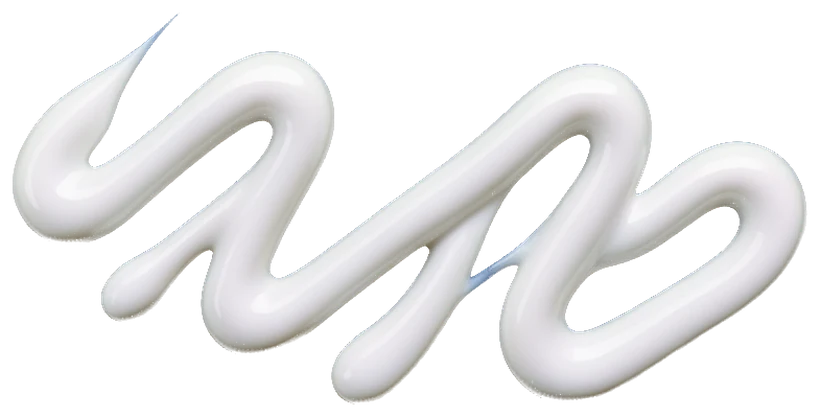
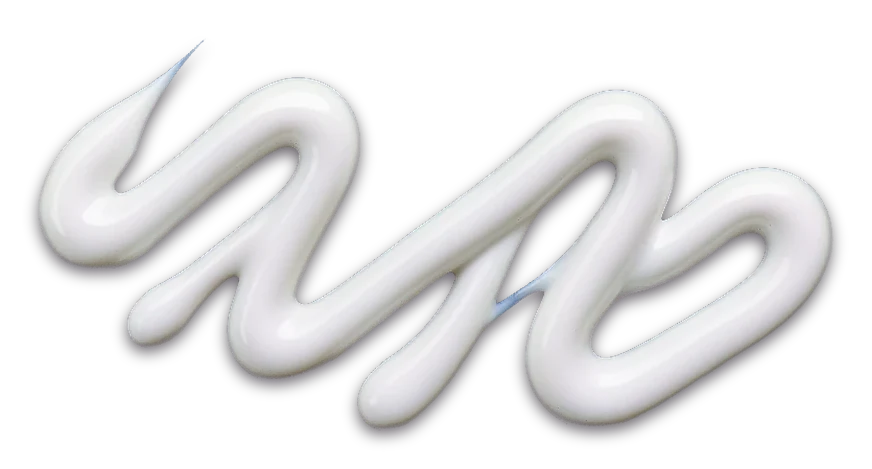
Refactor CSS styles and optimize image loading for better performance

diff --git a/js/app.js b/js/app.js
@@ -70,6 +70,24 @@
 
   const novoId = () => Date.now().toString(36) + Math.random().toString(36).slice(2, 6);
 
+  // "mola": passa um pouquinho do ponto e volta (mesmo efeito da animação anterior)
+  const molinha = (t) => 1 + 2.3 * Math.pow(t - 1, 3) + 1.3 * Math.pow(t - 1, 2);
+
+  // fotos das fatias, carregadas uma vez só e reaproveitadas por todos os copos
+  const FOTOS = new Map();
+  function fotoDoItem(item, aoCarregar) {
+    let img = FOTOS.get(item.id);
+    if (!img) {
+      img = new Image();
+      img.decoding = "async";
+      img.src = item.img;
+      img.decode?.().catch(() => {}); // prepara a foto em segundo plano (evita engasgo no 1º desenho)
+      FOTOS.set(item.id, img);
+    }
+    if (aoCarregar && !(img.complete && img.naturalWidth)) img.addEventListener("load", aoCarregar, { once: true });
+    return img;
+  }
+
   /* ============================================================
      O copo visto de cima
      ============================================================ */
@@ -83,7 +101,8 @@
         <div class="copo-borda"></div>
         <div class="copo-disco">
           <div class="copo-acai"></div>
-          <div class="copo-fatias"></div>
+          <canvas class="copo-fatias" aria-hidden="true"></canvas>
+          <div class="copo-centro"></div>
           ${CALDAS.map(
             (c, i) =>
               `<div class="calda" data-id="${esc(c.id)}" style="--giro:${GIRO_CALDA[i % GIRO_CALDA.length]}deg;background-image:url('${esc(c.calda)}')"></div>`,
@@ -94,53 +113,121 @@
     alvo.replaceChildren(el);
     if (chegada) el.addEventListener("animationend", () => el.classList.remove("copo-chegada"), { once: true });
 
-    const caixa = $(".copo-fatias", el);
+    // As fatias são desenhadas num canvas: um único desenho por quadro, leve até em celular simples.
+    const tela = $(".copo-fatias", el);
+    const ctx = tela.getContext("2d");
     const caldas = $$(".calda", el);
-    const fatias = new Map();
+    const fatias = new Map(); // id → { item, ini, arco, de, para, t0, sair }
+    const DURACAO = 550;
+    let raf = 0;
+    let sombra = null;
+    let sombraW = 0;
+
+    function ajustarTela() {
+      const dpr = Math.min(2, window.devicePixelRatio || 1);
+      const w = Math.round(tela.clientWidth * dpr);
+      if (w && tela.width !== w) {
+        tela.width = w;
+        tela.height = w;
+      }
+      return tela.width;
+    }
+
+    function pintar(agora) {
+      raf = 0;
+      const W = ajustarTela();
+      if (!W) return;
+      const c = W / 2;
+      const R = W / 2;
+      if (sombraW !== W) {
+        sombra = ctx.createRadialGradient(c, c, R * 0.84, c, c, R);
+        sombra.addColorStop(0, "rgba(20,0,24,0)");
+        sombra.addColorStop(1, "rgba(20,0,24,0.42)");
+        sombraW = W;
+      }
+      ctx.clearRect(0, 0, W, W);
+      let animando = false;
+      const instantaneo = estatico || semMovimento();
+      for (const [id, f] of fatias) {
+        const p = instantaneo ? 1 : Math.min(1, (agora - f.t0) / DURACAO);
+        const k = p >= 1 ? 1 : molinha(p);
+        f.ini = f.de.ini + (f.para.ini - f.de.ini) * k;
+        f.arco = Math.max(0, f.de.arco + (f.para.arco - f.de.arco) * k);
+        if (p < 1) animando = true;
+        else if (f.sair) {
+          fatias.delete(id);
+          continue;
+        }
+        if (f.arco < 0.3) continue;
+        const img = fotoDoItem(f.item, redesenhar);
+        if (!img.complete || !img.naturalWidth) continue;
+        const a0 = ((f.ini - 90) * Math.PI) / 180;
+        const a1 = ((f.ini + f.arco - 90) * Math.PI) / 180;
+        ctx.save();
+        ctx.beginPath();
+        ctx.moveTo(c, c);
+        ctx.arc(c, c, R, a0, a1);
+        ctx.closePath();
+        ctx.clip();
+        ctx.drawImage(img, 0, 0, W, W);
+        ctx.fillStyle = sombra;
+        ctx.fillRect(0, 0, W, W);
+        ctx.restore();
+        // risquinho escuro entre uma fatia e outra
+        ctx.strokeStyle = "rgba(20,0,24,0.38)";
+        ctx.lineWidth = Math.max(1, W / 260);
+        ctx.beginPath();
+        ctx.moveTo(c, c);
+        ctx.lineTo(c + R * Math.cos(a0), c + R * Math.sin(a0));
+        ctx.moveTo(c, c);
+        ctx.lineTo(c + R * Math.cos(a1), c + R * Math.sin(a1));
+        ctx.stroke();
+      }
+      if (animando) raf = requestAnimationFrame(pintar);
+    }
+
+    function redesenhar() {
+      if (!raf) raf = requestAnimationFrame(pintar);
+    }
+
+    // quando o copo aparece na tela (ou muda de tamanho), desenha de novo
+    if ("ResizeObserver" in window) new ResizeObserver(() => pintar(performance.now())).observe(tela);
 
     function desenhar(tamanho, itens) {
       el.style.setProperty("--escala", ESCALA[tamanho] ?? 1);
 
       const lista = ITENS.filter((i) => itens.has(i.id) && !i.calda);
       const n = lista.length;
-      const arco = n === 0 ? 0 : n < 5 ? 72 : 360 / n;
+      // as fatias ocupam no máximo 288° do copo: sempre sobra um pedaço de açaí à mostra
+      const arco = n === 0 ? 0 : Math.min(72, 288 / n);
       const inicio = -(arco * n) / 2;
+      el.classList.toggle("com-fatias", n > 0);
+      const agora = performance.now();
 
-      for (const [id, f] of fatias) {
-        if (itens.has(id)) continue;
-        fatias.delete(id);
-        if (estatico) {
-          f.remove();
-          continue;
-        }
-        const ini = parseFloat(f.style.getPropertyValue("--ini")) || 0;
-        const a = parseFloat(f.style.getPropertyValue("--arco")) || 0;
-        f.style.setProperty("--ini", `${ini + a / 2}deg`);
-        f.style.setProperty("--arco", "0deg");
-        setTimeout(() => f.remove(), 800);
+      for (const f of fatias.values()) {
+        if (itens.has(f.item.id) || f.sair) continue;
+        f.de = { ini: f.ini, arco: f.arco };
+        f.para = { ini: f.ini + f.arco / 2, arco: 0 }; // encolhe para o meio
+        f.t0 = agora;
+        f.sair = true;
       }
 
       lista.forEach((item, i) => {
         const ini = inicio + i * arco;
         let f = fatias.get(item.id);
         if (!f) {
-          f = document.createElement("div");
-          f.className = "fatia";
-          const foto = document.createElement("div");
-          foto.className = "fatia-foto";
-          foto.style.backgroundImage = `url("${item.img}")`;
-          f.append(foto);
-          f.style.setProperty("--ini", `${ini + arco / 2}deg`);
-          f.style.setProperty("--arco", "0deg");
-          caixa.append(f);
+          f = { item, ini: ini + arco / 2, arco: 0 }; // nasce do meio da própria fatia
           fatias.set(item.id, f);
-          if (!estatico) f.getBoundingClientRect(); // fixa o estado inicial antes de animar
         }
-        f.style.setProperty("--ini", `${ini}deg`);
-        f.style.setProperty("--arco", `${arco}deg`);
+        f.de = { ini: f.ini, arco: f.arco };
+        f.para = { ini, arco };
+        f.t0 = agora;
+        f.sair = false;
       });
 
       caldas.forEach((c) => c.classList.toggle("ativa", itens.has(c.dataset.id)));
+      if (estatico) pintar(agora);
+      else redesenhar();
     }
 
     function pular() {
@@ -215,7 +302,9 @@
   }
 
   const copoPrincipal = criarCopo($("[data-copo-principal]"), { chegada: true });
-  const copoMini = criarCopo($("[data-copo-mini]"));
+  // o copinho da barra só acompanha (sem animar), para não pesar no celular
+  const copoMini = criarCopo($("[data-copo-mini]"), { estatico: true });
+  ITENS.forEach((i) => fotoDoItem(i)); // pré-carrega as fotos das fatias
   let timerDesenho;
 
   function resumoTexto(tamanho, itens) {
@@ -283,7 +372,7 @@
           { transform: `translate(${dx * 0.5}px, ${dy * 0.5 - subida}px) scale(1.05)`, opacity: 1, offset: 0.5 },
           { transform: `translate(${dx}px, ${dy}px) scale(${escalaFinal})`, opacity: 0.1 },
         ],
-        { duration: 600, easing: "cubic-bezier(.4,.05,.5,1)" },
+        { duration: 460, easing: "cubic-bezier(.4,.05,.5,1)" },
       )
       .finished.finally(() => voo.remove());
     return true;
@@ -364,7 +453,7 @@
       montagem.itens.add(item.id);
       vibrar(10);
       const voou = voar(inp.nextElementSibling, item);
-      atualizarMontagem({ atraso: voou ? 400 : 0 });
+      atualizarMontagem({ atraso: voou ? 260 : 0 });
     } else {
       montagem.itens.delete(item.id);
       atualizarMontagem();

diff --git a/css/style.css b/css/style.css
@@ -2,16 +2,6 @@
    Ganath Açaí
    ============================================================ */
 
-@property --ini {
-  syntax: "<angle>";
-  inherits: true;
-  initial-value: 0deg;
-}
-@property --arco {
-  syntax: "<angle>";
-  inherits: true;
-  initial-value: 0deg;
-}
 @property --revela {
   syntax: "<percentage>";
   inherits: false;
@@ -216,9 +206,7 @@ a {
   position: sticky;
   top: 0;
   z-index: 30;
-  background: rgb(43 10 49 / 0.84);
-  -webkit-backdrop-filter: blur(14px) saturate(1.4);
-  backdrop-filter: blur(14px) saturate(1.4);
+  background: var(--acai-800); /* sólido, sem vidro fosco: o desfoque de fundo travava a animação no celular */
   border-bottom: 1px solid rgb(255 255 255 / 0.06);
 }
 
@@ -802,8 +790,7 @@ h1 {
   position: absolute;
   inset: 8% 6% -4%;
   border-radius: 50%;
-  background: radial-gradient(closest-side, rgb(8 0 12 / 0.8), rgb(8 0 12 / 0.35) 70%, transparent);
-  filter: blur(10px);
+  background: radial-gradient(closest-side, rgb(8 0 12 / 0.75), rgb(8 0 12 / 0.4) 45%, rgb(8 0 12 / 0.12) 75%, transparent);
   transform: translateY(6%) scale(var(--escala));
   transition: transform 0.7s var(--mola);
 }
@@ -883,59 +870,31 @@ h1 {
   inset: 0;
   background: #3a0c3f url("../img/acai.webp") center / cover no-repeat;
 }
+/* as fatias de cada fruta/acompanhamento são desenhadas neste canvas (veja criarCopo no app.js) */
 .copo-fatias {
   position: absolute;
   inset: 0;
+  display: block;
+  width: 100%;
+  height: 100%;
 }
 
-/* cada fruta/acompanhamento vira uma fatia do anel */
-.fatia {
+/* montinho de açaí no centro, por cima das fatias (mesma foto, alinhada com o fundo) */
+.copo-centro {
   position: absolute;
-  inset: 0;
-  filter: drop-shadow(0 1px 2px rgb(12 0 16 / 0.7)) drop-shadow(0 4px 8px rgb(12 0 16 / 0.35));
+  inset: 31%;
+  border-radius: 50%;
+  background: #3a0c3f url("../img/acai.webp") center / 263% no-repeat;
+  opacity: 0;
   transition:
-    --ini 0.75s var(--mola),
-    --arco 0.75s var(--mola);
+    opacity 0.35s var(--suave),
+    box-shadow 0.35s var(--suave);
 }
-.fatia-foto {
-  position: absolute;
-  inset: 0;
-  border-radius: 50%;
-  background: center / cover no-repeat;
-  -webkit-mask-image:
-    conic-gradient(
-      from var(--ini),
-      transparent 0deg,
-      #000 1.4deg,
-      #000 calc(var(--arco) - 1.4deg),
-      transparent var(--arco)
-    ),
-    radial-gradient(closest-side, transparent 33%, #000 36%);
-  -webkit-mask-composite: source-in;
-  mask-image:
-    conic-gradient(
-      from var(--ini),
-      transparent 0deg,
-      #000 1.4deg,
-      #000 calc(var(--arco) - 1.4deg),
-      transparent var(--arco)
-    ),
-    radial-gradient(closest-side, transparent 33%, #000 36%);
-  mask-composite: intersect;
-}
-.fatia-foto::after {
-  content: "";
-  position: absolute;
-  inset: 0;
-  border-radius: 50%;
-  background: radial-gradient(
-    closest-side,
-    transparent 33%,
-    rgb(20 0 24 / 0.45) 36%,
-    transparent 46%,
-    transparent 86%,
-    rgb(20 0 24 / 0.4) 100%
-  );
+.copo.com-fatias .copo-centro {
+  opacity: 1;
+  box-shadow:
+    0 0 0 1px rgb(20 0 24 / 0.35),
+    0 3px 14px 4px rgb(14 0 18 / 0.6);
 }
 
 /* calda (foto) que vai sendo despejada por cima */
@@ -943,17 +902,16 @@ h1 {
   position: absolute;
   left: 50%;
   top: 50%;
-  width: 76%;
-  aspect-ratio: 820 / 417;
+  width: 80%;
+  aspect-ratio: 872 / 469;
   translate: -50% -50%;
   rotate: var(--giro, 0deg);
-  background: center / contain no-repeat;
+  background: center / contain no-repeat; /* a sombra já vem pronta na imagem */
   pointer-events: none;
-  filter: drop-shadow(0 3px 3px rgb(12 0 16 / 0.6));
   --revela: 0%;
   -webkit-mask-image: linear-gradient(90deg, #000 calc(var(--revela) - 14%), transparent var(--revela));
   mask-image: linear-gradient(90deg, #000 calc(var(--revela) - 14%), transparent var(--revela));
-  transition: --revela 1.3s cubic-bezier(0.45, 0, 0.3, 1);
+  transition: --revela 1s cubic-bezier(0.45, 0, 0.3, 1);
 }
 .calda.ativa {
   --revela: 116%;
@@ -974,8 +932,7 @@ h1 {
   position: absolute;
   inset: 0;
   border-radius: 50%;
-  background: radial-gradient(circle at 30% 22%, rgb(255 255 255 / 0.4), transparent 34%);
-  mix-blend-mode: soft-light;
+  background: radial-gradient(circle at 30% 22%, rgb(255 255 255 / 0.16), transparent 34%);
 }
 
 .copo-estatico *,
@@ -1088,9 +1045,7 @@ h2 {
   gap: 10px;
   min-height: var(--barra-altura);
   padding: 10px var(--margem) calc(10px + env(safe-area-inset-bottom));
-  background: rgb(33 7 41 / 0.94);
-  -webkit-backdrop-filter: blur(16px);
-  backdrop-filter: blur(16px);
+  background: var(--acai-900); /* sólido, sem vidro fosco (mesmo motivo do topo) */
   border-top: 1px solid rgb(255 255 255 / 0.08);
 }
 .barra-copo {
